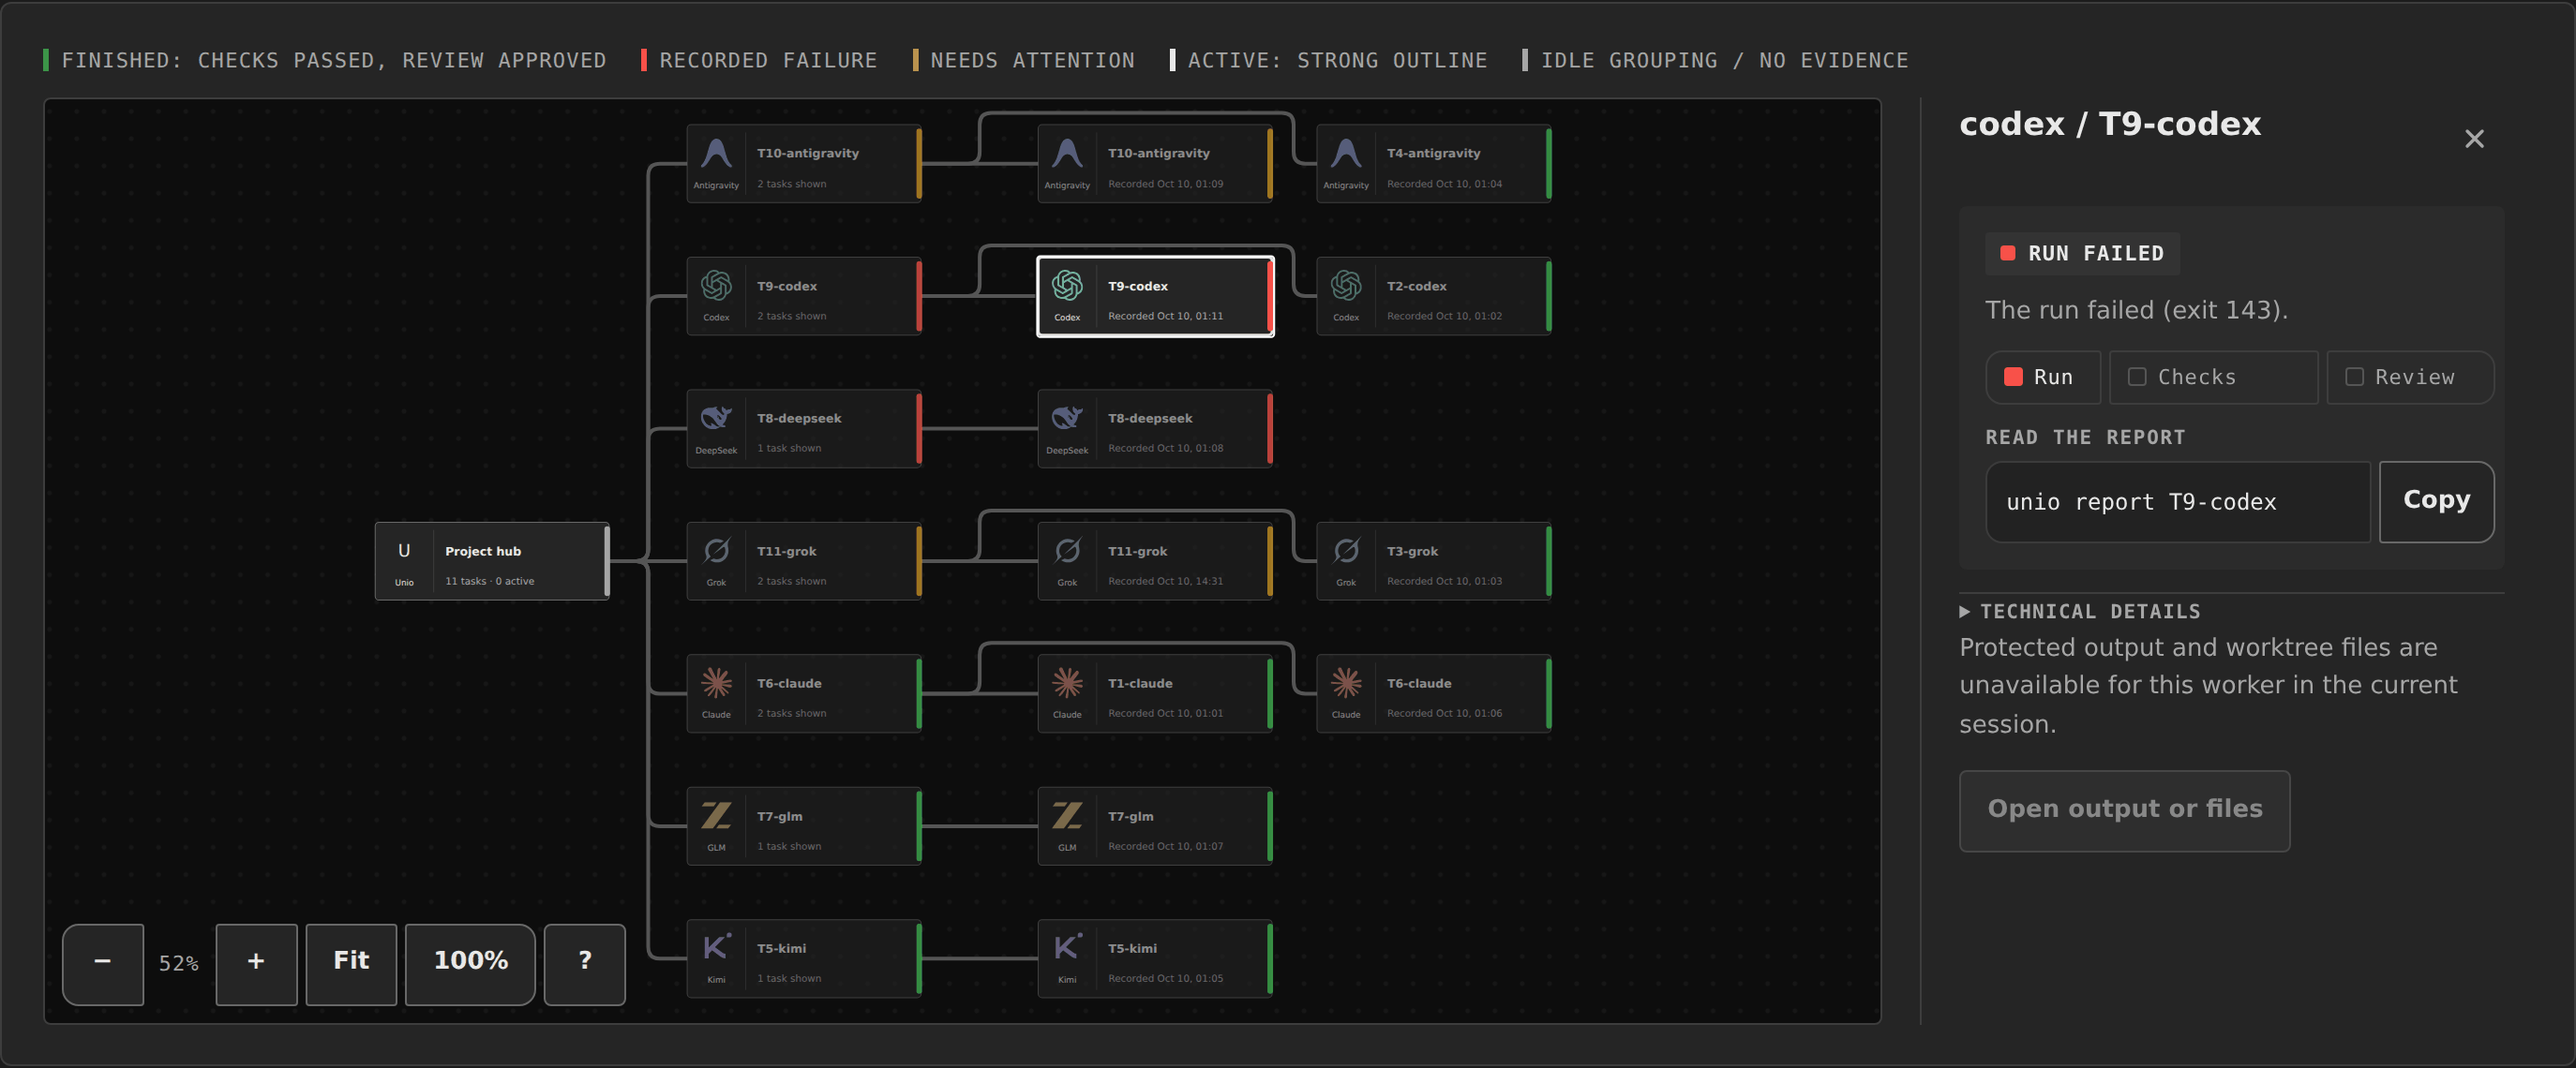
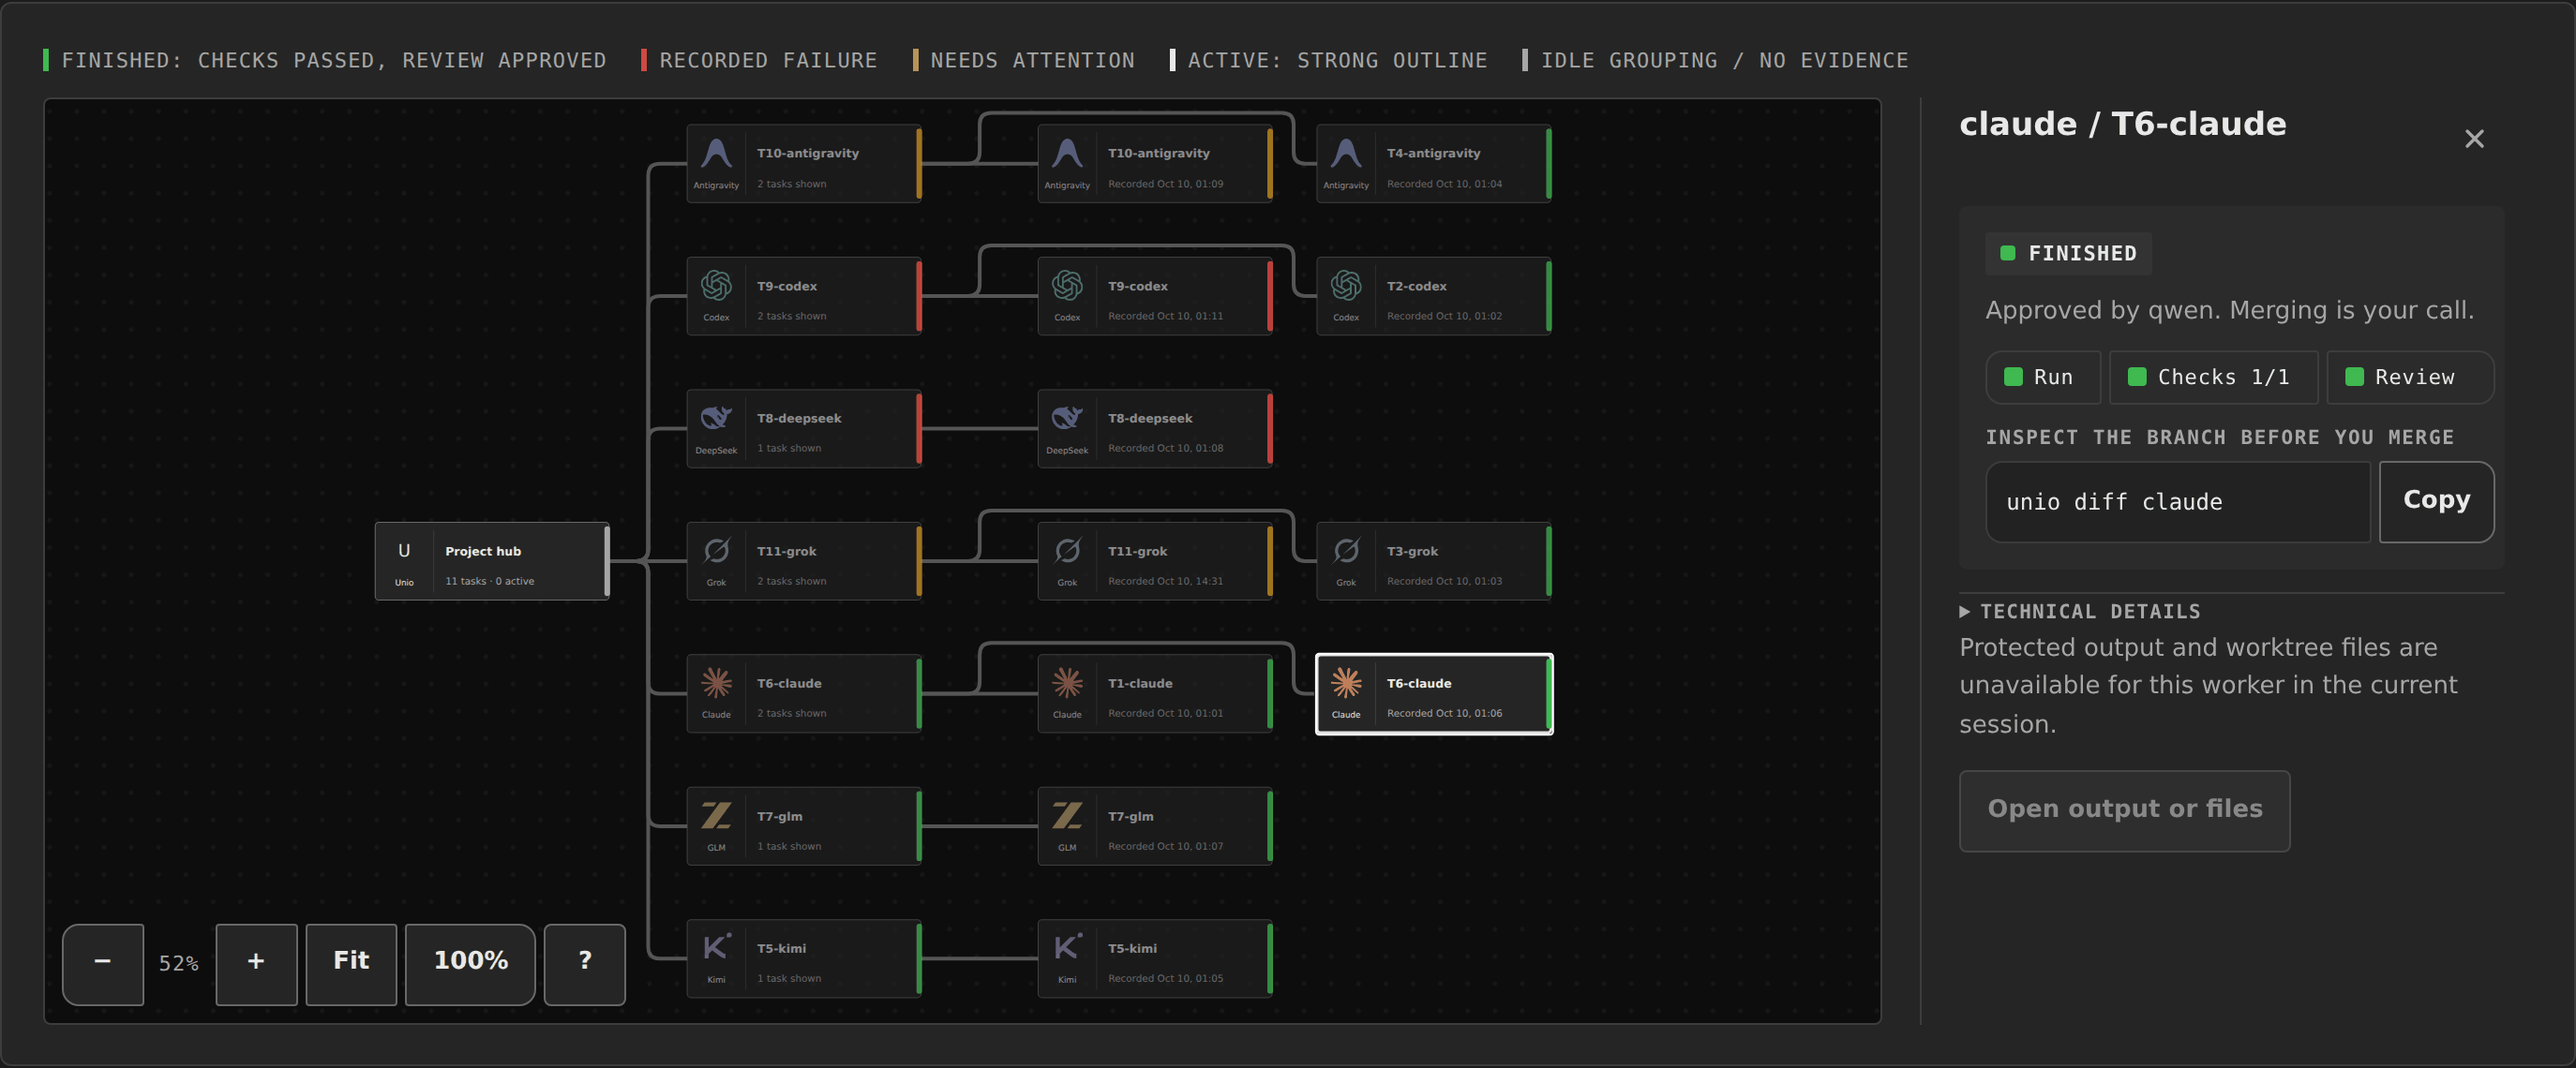
Brand kit: just the clean dot line; README work map shows a finished task
The owner prefers the plain one-row dot line, so the versions with stray
dots above and below are gone: patterns/line.svg is the one dot line
(animated like the logo) and every README section break uses it. The
README's work-map screenshot now opens a finished task (run, checks 1/1,
review approved by another lab) instead of a failed run.

diff --git a/tools/make-brand-assets.py b/tools/make-brand-assets.py
@@ -10,10 +10,8 @@ dot's place on the letter's grid and draws it as an even rounded square at
 
   logo/single/   strokes one dot wide, as in the font (the website's logo)
   logo/double/   strokes two dots wide: every dot grows to a 2 x 2 block
-  patterns/      dot lines drawn like a Doto stroke: one row of dots with a
-                 dot or a short dash above or below here and there; five
-                 shapes, each also mirrored, and one clear line. Animated
-                 like the logo
+  patterns/      the dot line: one row of dots drawn like a Doto stroke,
+                 animated like the logo
 
 Every logo comes in one ink, the agent tones (a still moment of the wave) and
 animated (a ring build-in from the top-left, then the tones flow through the
@@ -215,10 +213,7 @@ def main():
     (OUT / 'patterns').mkdir(parents=True, exist_ok=True)
     for old in (OUT / 'patterns').glob('*.svg'):
         old.unlink()
-    write_line('line-clear', 1, extras=False)
-    for i, seed in enumerate((5, 12, 23, 38, 41), start=1):
-        write_line(f'line-{i}', seed)
-        write_line(f'line-{i}-mirrored', seed, mirror=True)
+    write_line('line', 1, extras=False)
     for sub in ('logo/single', 'logo/double', 'patterns'):
         print(sub + ':', ', '.join(sorted(p.name for p in (OUT / sub).glob('*.svg'))))
 

diff --git a/README.md b/README.md
@@ -7,7 +7,7 @@ Unio brings AI agents from different AI labs together to build and improve
 your project. A lead delegates the work, other agents review the changes,
 and you stay in control.
 
-![The Unio dashboard's work map: each AI worker and its tasks, with the details of a failed run and the command to read its report](docs/screenshots/dashboard-work-map.png)
+![The Unio dashboard's work map: each AI worker and its tasks, with a finished task open: run, checks and review done, approved by another lab](docs/screenshots/dashboard-work-map.png)
 
 ## What Unio Does
 
@@ -103,7 +103,7 @@ dashboard stays up until `unio dashboard stop`, which never stops workers.
 [FAQ](#faq) · [Under the hood](#for-the-curious-and-the-nerdy) ·
 [What's next](#whats-next)
 
-![](docs/brand/patterns/line-4.svg)
+![](docs/brand/patterns/line.svg)
 
 ## A look around
 
@@ -130,7 +130,7 @@ checked, reviewed and merged.
 These screenshots show the demo project. On your computer, `unio dashboard`
 opens the same view of your own work.
 
-![](docs/brand/patterns/line-1.svg)
+![](docs/brand/patterns/line.svg)
 
 ## A task, step by step
 
@@ -147,7 +147,7 @@ Say you want to add search to a small website:
    finished AI run is not proof the work is right; the checks and your
    review are.
 
-![](docs/brand/patterns/line-2-mirrored.svg)
+![](docs/brand/patterns/line.svg)
 
 ## Good to know
 
@@ -167,7 +167,7 @@ Say you want to add search to a small website:
 - AI tools send your prompts and code to their providers. Keep secrets out
   of tasks and repositories.
 
-![](docs/brand/patterns/line-3.svg)
+![](docs/brand/patterns/line.svg)
 
 ## Try it free (no AI calls)
 
@@ -232,7 +232,7 @@ Start with one helper and add another when you want a second perspective.
  instead of switching its safety checks off. Unio's own refusals,
  such as `STOP is active`, say why in their message.
 
-![](docs/brand/patterns/line-clear.svg)
+![](docs/brand/patterns/line.svg)
 
 ## Work modes and coordination budget
 
@@ -292,7 +292,7 @@ weekly windows separately from your manual readings. A failed refresh turns
 that group Unknown and keeps the earlier reading as history only. Other
 providers stay manual or Unknown.
 
-![](docs/brand/patterns/line-4-mirrored.svg)
+![](docs/brand/patterns/line.svg)
 
 ## FAQ
 
@@ -429,7 +429,7 @@ only sensible on a throwaway virtual machine.
 
 </details>
 
-![](docs/brand/patterns/line-5.svg)
+![](docs/brand/patterns/line.svg)
 
 ## For the curious and the nerdy
 
@@ -508,7 +508,7 @@ bash tools/check-docs.sh
 CodeGraph is optional; an unindexed project stays unindexed. Pandoc is only
 needed to rebuild the Word manuals with `tools/make-docx.sh`.
 
-![](docs/brand/patterns/line-1-mirrored.svg)
+![](docs/brand/patterns/line.svg)
 
 ## What's next
 
@@ -537,7 +537,7 @@ Continuing this project with another AI? Paste the prompt from
 [workspace rules](docs/development/WORKSPACE-RULES.md). The [M1 status](docs/M1-STATUS.md)
 and [findings index](docs/RESEARCH-FINDINGS.md) hold the details.
 
-![](docs/brand/patterns/line-2.svg)
+![](docs/brand/patterns/line.svg)
 
 ## License
 
@@ -559,7 +559,7 @@ separate paid agreement. The software comes without warranty, and liability
 limits apply subject to applicable law. Read the
 [licensing and commercial-use guide](docs/LICENSING.md) for details.
 
-![](docs/brand/patterns/line-3-mirrored.svg)
+![](docs/brand/patterns/line.svg)
 
 ## Keywords
 

diff --git a/docs/brand/README.md b/docs/brand/README.md
@@ -3,7 +3,7 @@
 ![UNIO](logo/single/unio-logo_animated-light.svg#gh-light-mode-only)
 ![UNIO](logo/single/unio-logo_animated-dark.svg#gh-dark-mode-only)
 
-The logos, dot lines and story behind Unio's look. The full guide (name,
+The logos, the dot line and the story behind Unio's look. The full guide (name,
 voice, typography, colors and UI rules) is
 [docs/BRAND.md](../BRAND.md#visual-identity).
 
@@ -33,7 +33,7 @@ how Unio works.
 | --- | --- |
 | `logo/single/` | The logo with strokes one dot wide, as in the font. The website and the README use it. |
 | `logo/double/` | The same word with strokes two dots wide: every dot grown to a 2 × 2 block. Bolder, for larger or busier places. |
-| `patterns/` | Dot lines for breaking up long pages: one clear line and five with stray dots, each also mirrored. |
+| `patterns/` | The dot line, for breaking up long pages. |
 | `legacy/` | The earlier dot-matrix U, still the website's favicon and the dashboard's loading screen. |
 
 ## Logo
@@ -52,20 +52,14 @@ Single and double, in the agent tones, on light:
 ![UNIO, single dots](logo/single/unio-logo_tones-light.svg)
 ![UNIO, double dots](logo/double/unio-logo_tones-light.svg)
 
-## Dot lines
+## Dot line
 
-A line drawn like a stroke of Doto: one row of dots in the agent tones, and,
-here and there, a dot or a short dash above or below it. Like the logo, it is
-animated: the dots grow in from the left, then the tones flow along the line
-without end (still for people who turn animation off). `line-clear.svg` is
-the plain line; `line-1.svg` to `line-5.svg` carry the stray dots, and each
-`-mirrored` version is the same line flipped left to right, so there are
-eleven in all. Put one between sections of a long page and don't repeat a
-line on the same page.
+One row of dots in the agent tones, drawn like a stroke of Doto. Like the
+logo, it is animated: the dots grow in from the left, then the tones flow
+along the line without end (still for people who turn animation off). Use
+`patterns/line.svg` between the sections of a long page, such as the README.
 
-![](patterns/line-1.svg)
-
-![](patterns/line-clear.svg)
+![](patterns/line.svg)
 
 ## Making them
 

diff --git a/docs/BRAND.md b/docs/BRAND.md
@@ -95,11 +95,11 @@ forming one word. Every dot is an even rounded square at 80 % of the dot
 spacing. On the website header it stands alone, with no pill or separate
 symbol, and animates like the titles.
 
-The logo files, the dot lines and the story of what the dots mean are in the
+The logo files, the dot line and the story of what the dots mean are in the
 [brand kit](brand/README.md): the logo with one-dot and two-dot strokes, each
 in one ink, the agent tones and animated, for light and dark backgrounds,
-plus eleven animated dot lines for breaking up long pages, all drawn from
-Doto by `tools/make-brand-assets.py`. The
+plus the animated dot line for breaking up long pages, all drawn from Doto
+by `tools/make-brand-assets.py`. The
 earlier dot-matrix U (`brand/legacy/`) is still the website favicon and the
 dashboard's loading screen.
 
